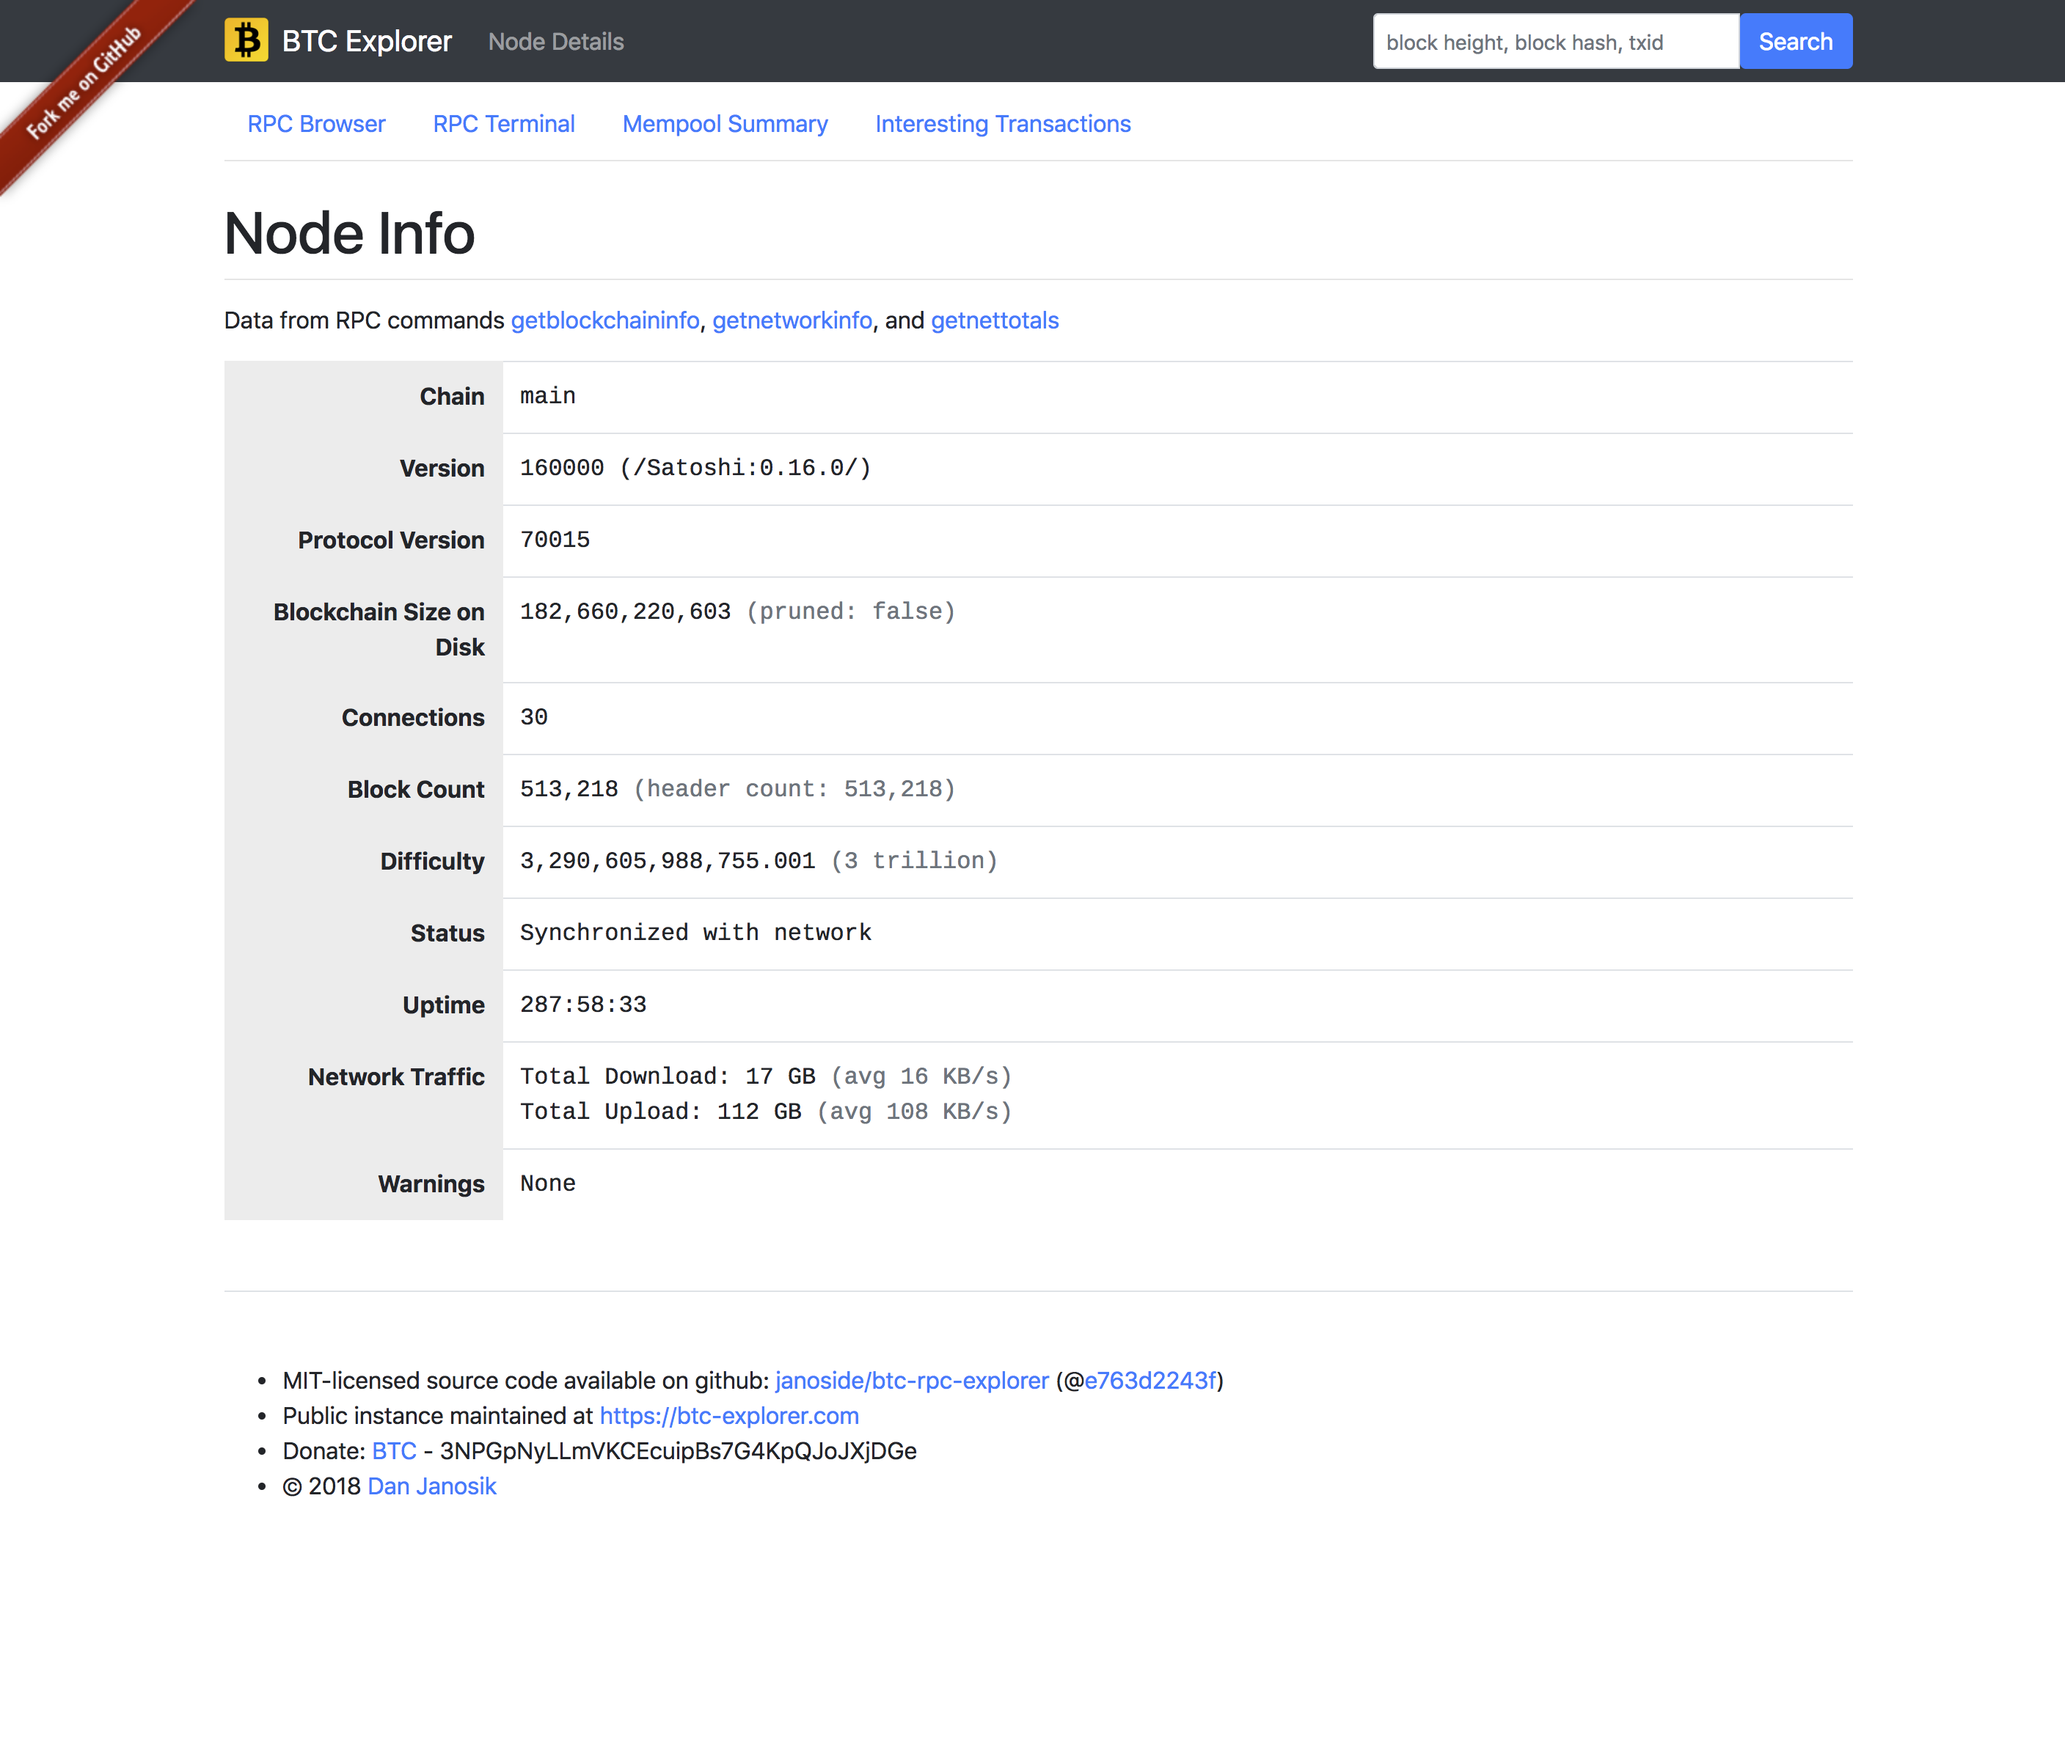
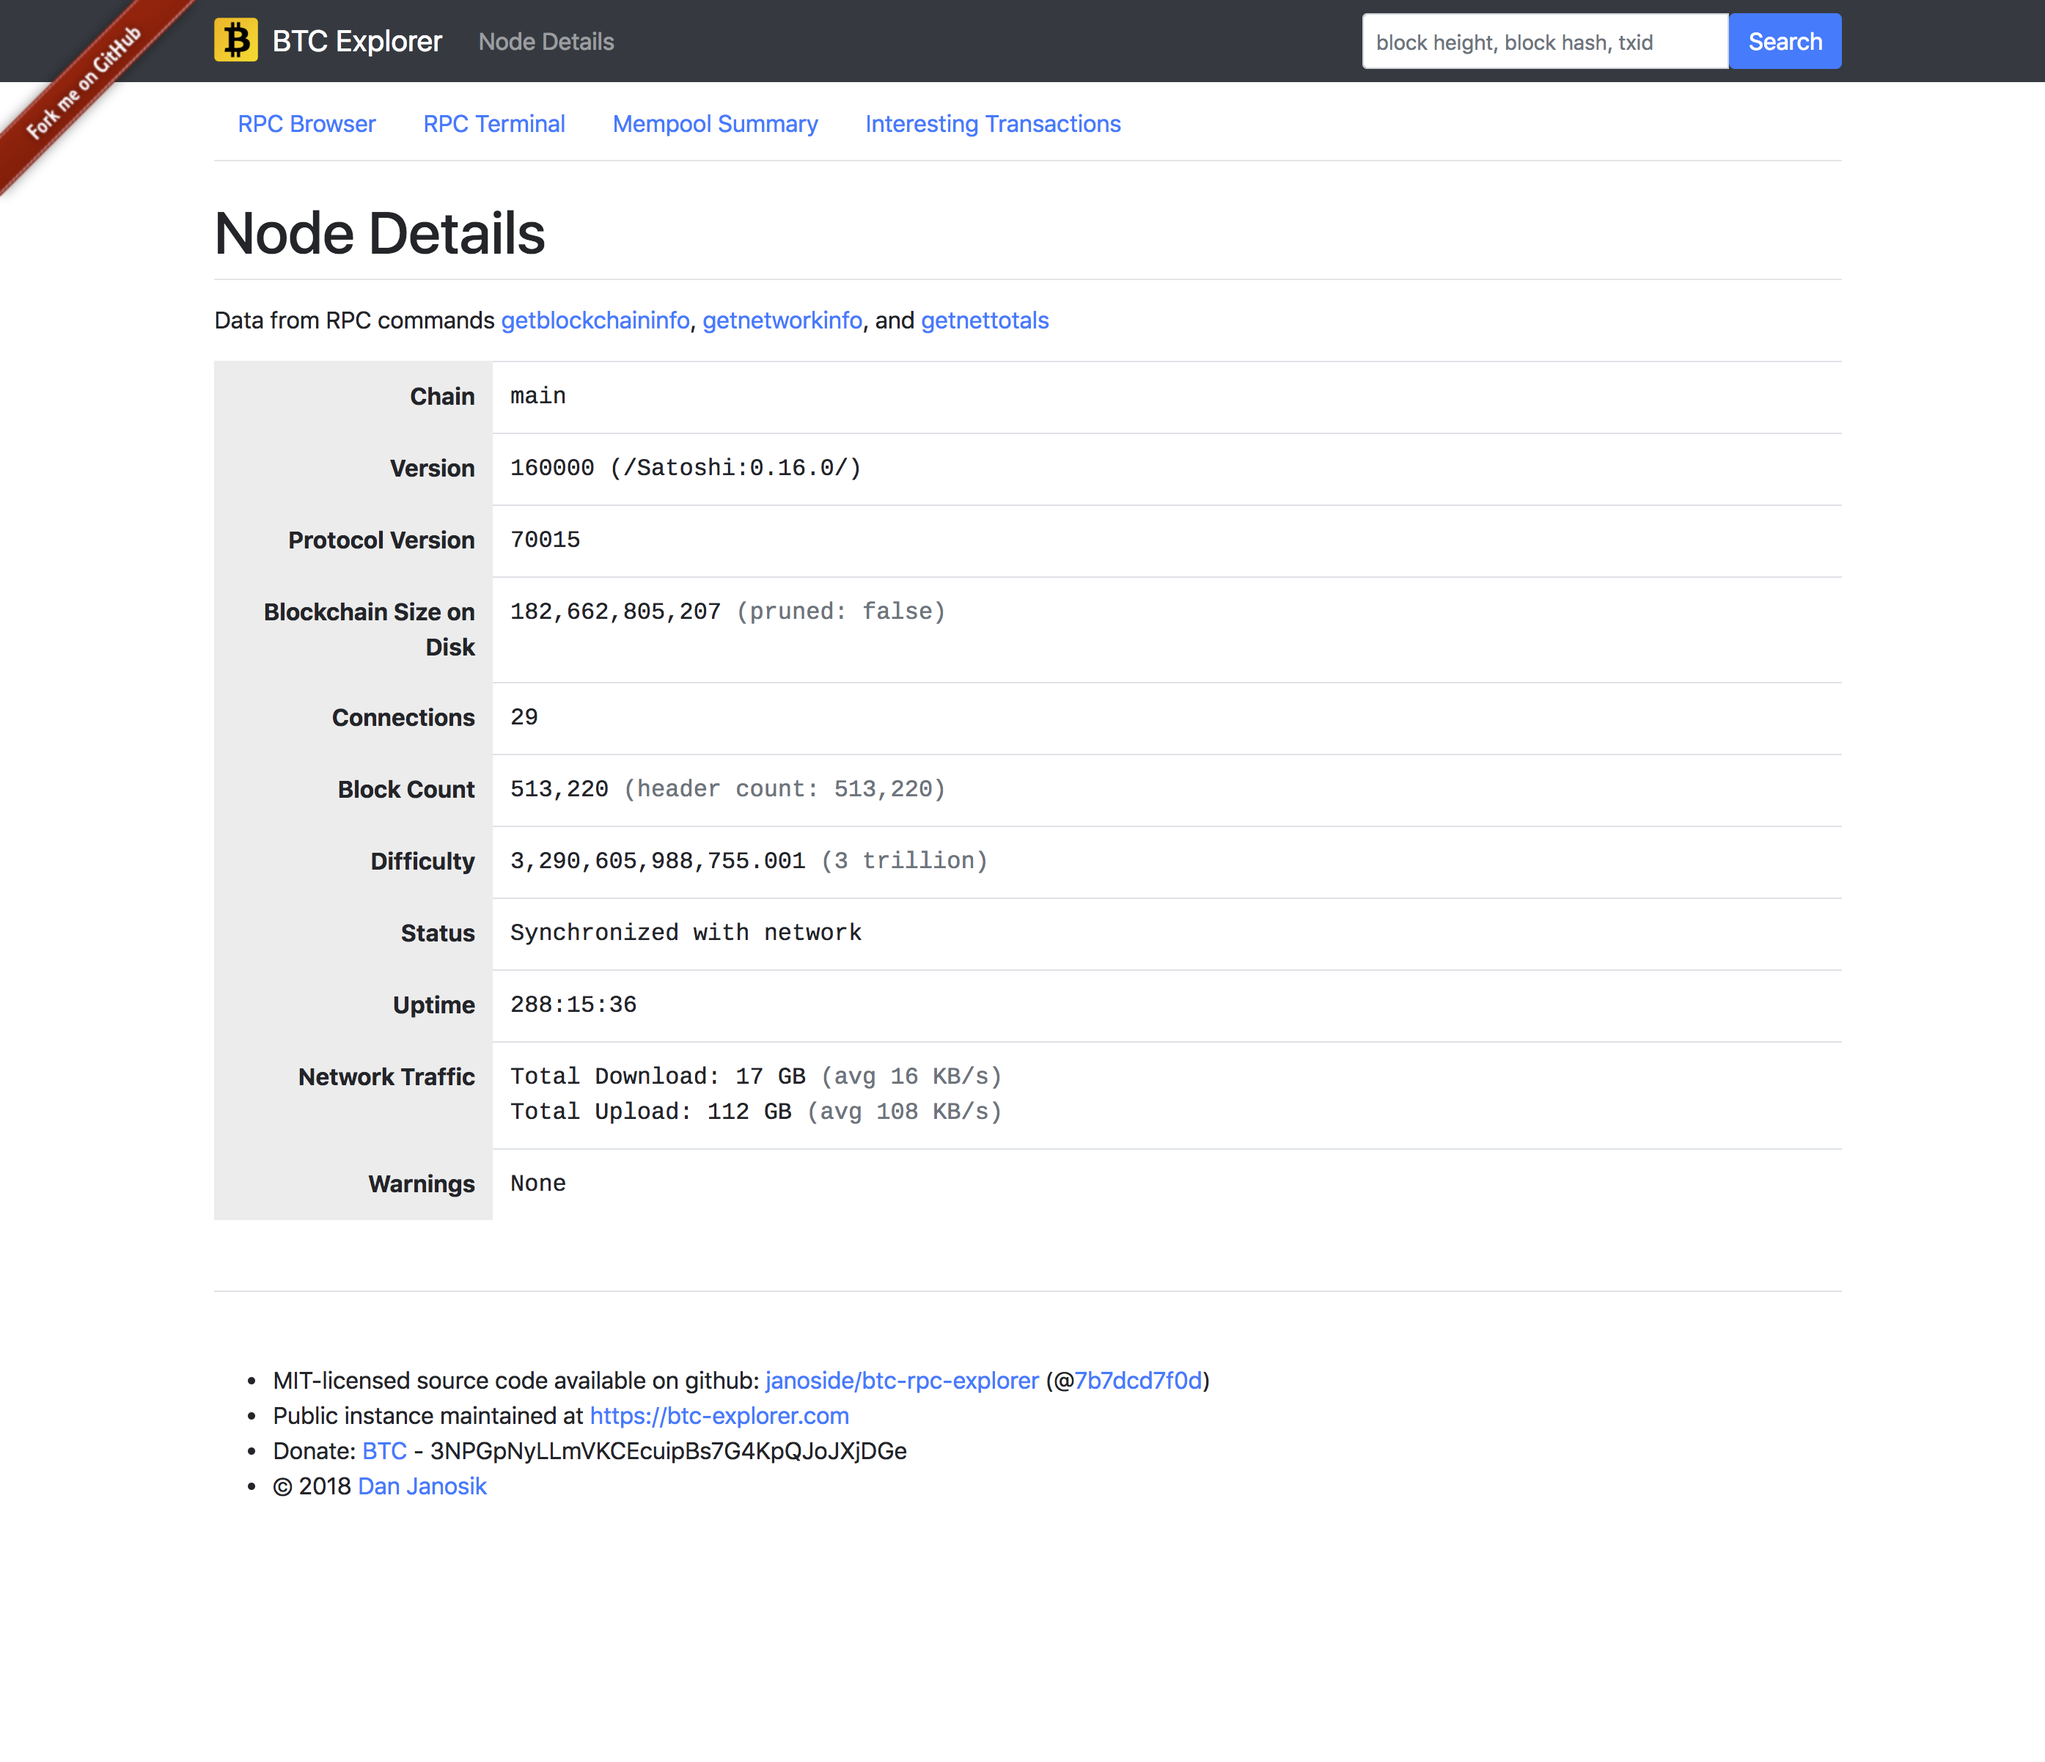
consistency fix

diff --git a/routes/baseActionsRouter.js b/routes/baseActionsRouter.js
@@ -51,7 +51,7 @@ router.get("/", function(req, res) {
 	});
 });
 
-router.get("/node-info", function(req, res) {
+router.get("/node-details", function(req, res) {
 	var client = global.client;
 
 	rpcApi.getBlockchainInfo().then(function(getblockchaininfo) {
@@ -66,27 +66,27 @@ router.get("/node-info", function(req, res) {
 				rpcApi.getNetTotals().then(function(getnettotals) {
 					res.locals.getnettotals = getnettotals;
 
-					res.render("node-info");
+					res.render("node-details");
 
 				}).catch(function(err) {
 					res.locals.userMessage = "Unable to connect to Bitcoin Node at " + env.bitcoind.host + ":" + env.bitcoind.port;
 
-					res.render("node-info");
+					res.render("node-details");
 				});
 			}).catch(function(err) {
 				res.locals.userMessage = "Unable to connect to Bitcoin Node at " + env.bitcoind.host + ":" + env.bitcoind.port;
 
-				res.render("node-info");
+				res.render("node-details");
 			});
 		}).catch(function(err) {
 			res.locals.userMessage = "Unable to connect to Bitcoin Node at " + env.bitcoind.host + ":" + env.bitcoind.port;
 
-			res.render("node-info");
+			res.render("node-details");
 		});
 	}).catch(function(err) {
 		res.locals.userMessage = "Unable to connect to Bitcoin Node at " + env.bitcoind.host + ":" + env.bitcoind.port;
 
-		res.render("node-info");
+		res.render("node-details");
 	});
 });
 
